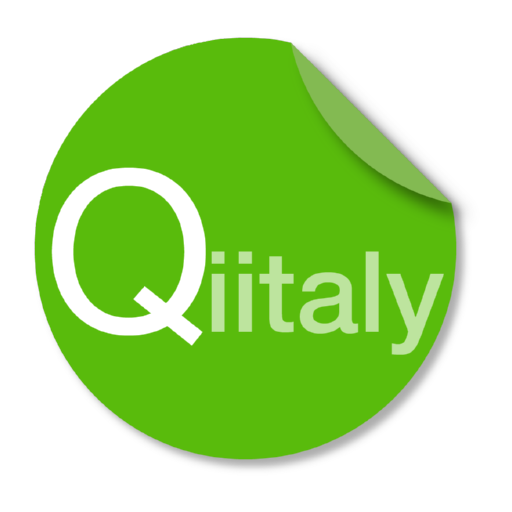
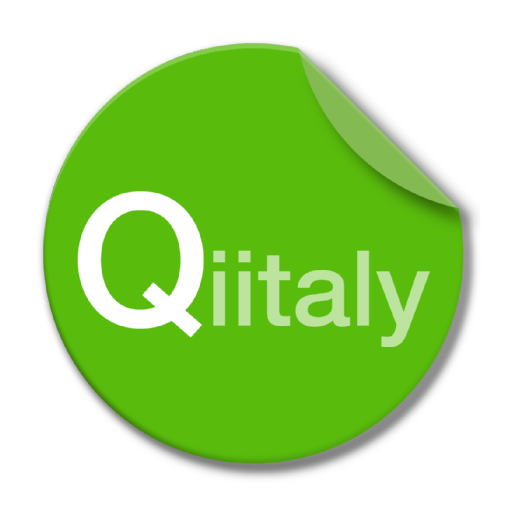
アイコンやアプリ名の修正

Changed region(s): [[0.0625, 0.0625, 0.9375, 0.9375], [0.6562, 0.25, 0.6875, 0.2812], [0.625, 0.2188, 0.6562, 0.25]]

diff --git a/app/src/main/java/com/abplus/qiitaly/app/TopicListAdapter.java b/app/src/main/java/com/abplus/qiitaly/app/TopicListAdapter.java
@@ -258,20 +258,29 @@ public class TopicListAdapter extends BaseAdapter {
             });
         }
     }
-//
-//    public static class BySearch extends TopicListAdapter {
-//
-//        BySearch(Activity activity, String query) {
-//            super(activity);
-//
-//            title = query;
-//
-//            Backend.sharedInstance().search(query, new CommonItemsCallback() {
-//                @Override
-//                public void onSuccess(List<Item> items) {
-//                    initItems(items);
-//                }
-//            });
-//        }
-//    }
+
+    public static class BySearch extends TopicListAdapter {
+
+        private String query;
+
+        BySearch(Activity activity, String query) {
+            super(activity);
+            title = query;
+            this.query = query;
+            load(null);
+        }
+
+        @Override
+        protected void load(final Runnable runnable) {
+            Backend.sharedInstance().search(query, new ItemsCallback() {
+                @Override
+                public void onSuccess(List<Item> items) {
+                    initItems(items);
+                    if (runnable != null) {
+                        runnable.run();
+                    }
+                }
+            });
+        }
+    }
 }
